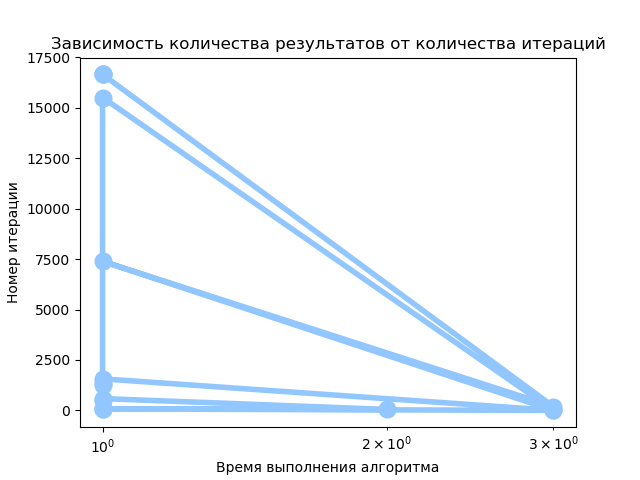
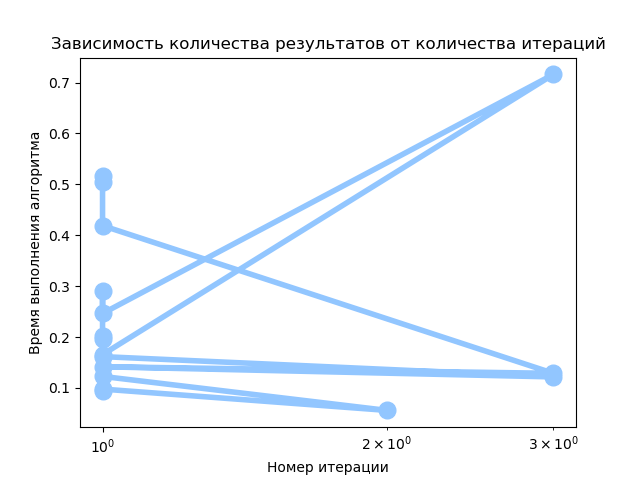
bugfix statistics

diff --git a/templates/stat.html b/templates/stat.html
@@ -14,7 +14,7 @@
         <div style="display: inline-block;">
         {% for image in stat_image %}
             <div style="width:50%; float:left;">
-                <img src="{{ url_for('static', filename=image) }}" alt="{{ image }}" style="width:100%"/>
+                <img src="{{ url_for('logs', filename=image) }}" alt="{{ image }}" style="width:100%"/>
             </div>
         {% endfor %}
         </div>

diff --git a/scripts/key.py b/scripts/key.py
@@ -4,9 +4,10 @@ from scripts.scoring import segment
 from scripts.grammar import make_n_gramms, lemm_list, normalize_hashtag, get_words
 
 
+# Коэффициент достоверности поиска по n-граммам
 glob_gramms_acception = 0.7
 
-# Коэффициент достоверности нечеткого поиска
+# Коэффициент достоверности нечеткого поиска по словам
 glob_words_acception = 0.6
 
 # Минимальный возможный порог совпадения слов по n-граммам
@@ -84,7 +85,7 @@ def update_result(hashtags, *args):
     max_frequency = max([result[key]['frequency'] for key in result]) if result else 1
     for element in result:
         result[element]['total'] = round((0.7*result[element]['probability'])
-                                         +(0.3*result[element]['frequency']/max_frequency), 5)
+                                         + (0.3*result[element]['frequency']/max_frequency), 5)
     return result
 
 

diff --git a/scripts/statistics.py b/scripts/statistics.py
@@ -48,12 +48,12 @@ def iteration_length(log, file_path):
     if log:
         df = pd.DataFrame(log)
         x_name = 'iteration'
-        y_name = 'length'
+        y_name = 'execution_time'
         x = list(map(lambda x: int(x), list(df[x_name])))
         y = list(map(lambda x: float(x), list(df[y_name])))
 
         return get_plt(df=df, x=x, y=y, file_path=file_path,
-                       x_label='Время выполнения алгоритма', y_label='Номер итерации',
+                       x_label='Номер итерации', y_label='Время выполнения алгоритма',
                        title='Зависимость количества результатов от количества итераций')
     else:
         return 'Лог пуст'

diff --git a/index.py b/index.py
@@ -63,6 +63,7 @@ def login(username, password):
 
 @app.route('/load', defaults={'path': None})
 @app.route('/load:<path>')
+@auth.login_required
 def logger_load(path=None):
     LOGGER.load_log(path)
     return "Лог загружен"
